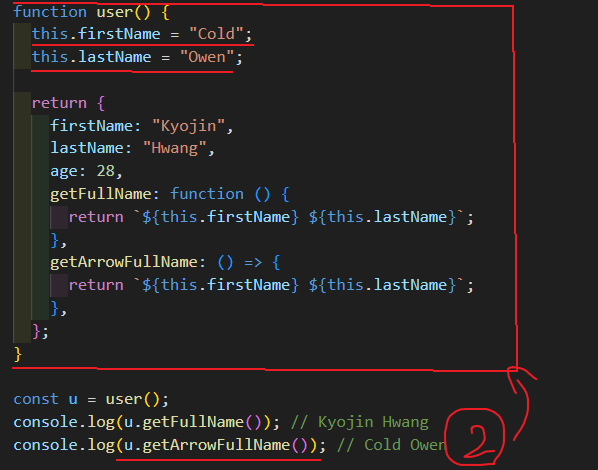
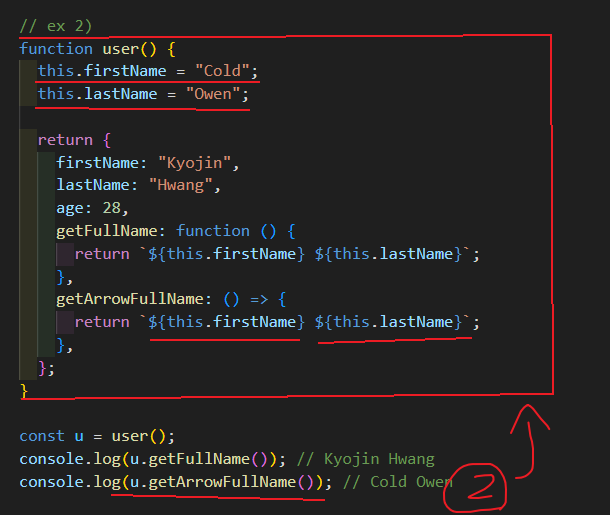
docs : 이미지 추가

diff --git a/JS_Function/README.md b/JS_Function/README.md
@@ -521,7 +521,7 @@ console.log(u.getArrowFullName()); // Cold Owen
 
 ### this 일반함수 접근 ( 상단의 예제로 설명)
 
-![image](https://github.com/KyoJin-Hwang/front-javascript-study/assets/84490050/890e613c-2820-40db-907f-2ea239778131)
+![alt text](image-1.png)
 
 ### this 화살표함수 접근 ( 상단의 예제로 설명)
 
